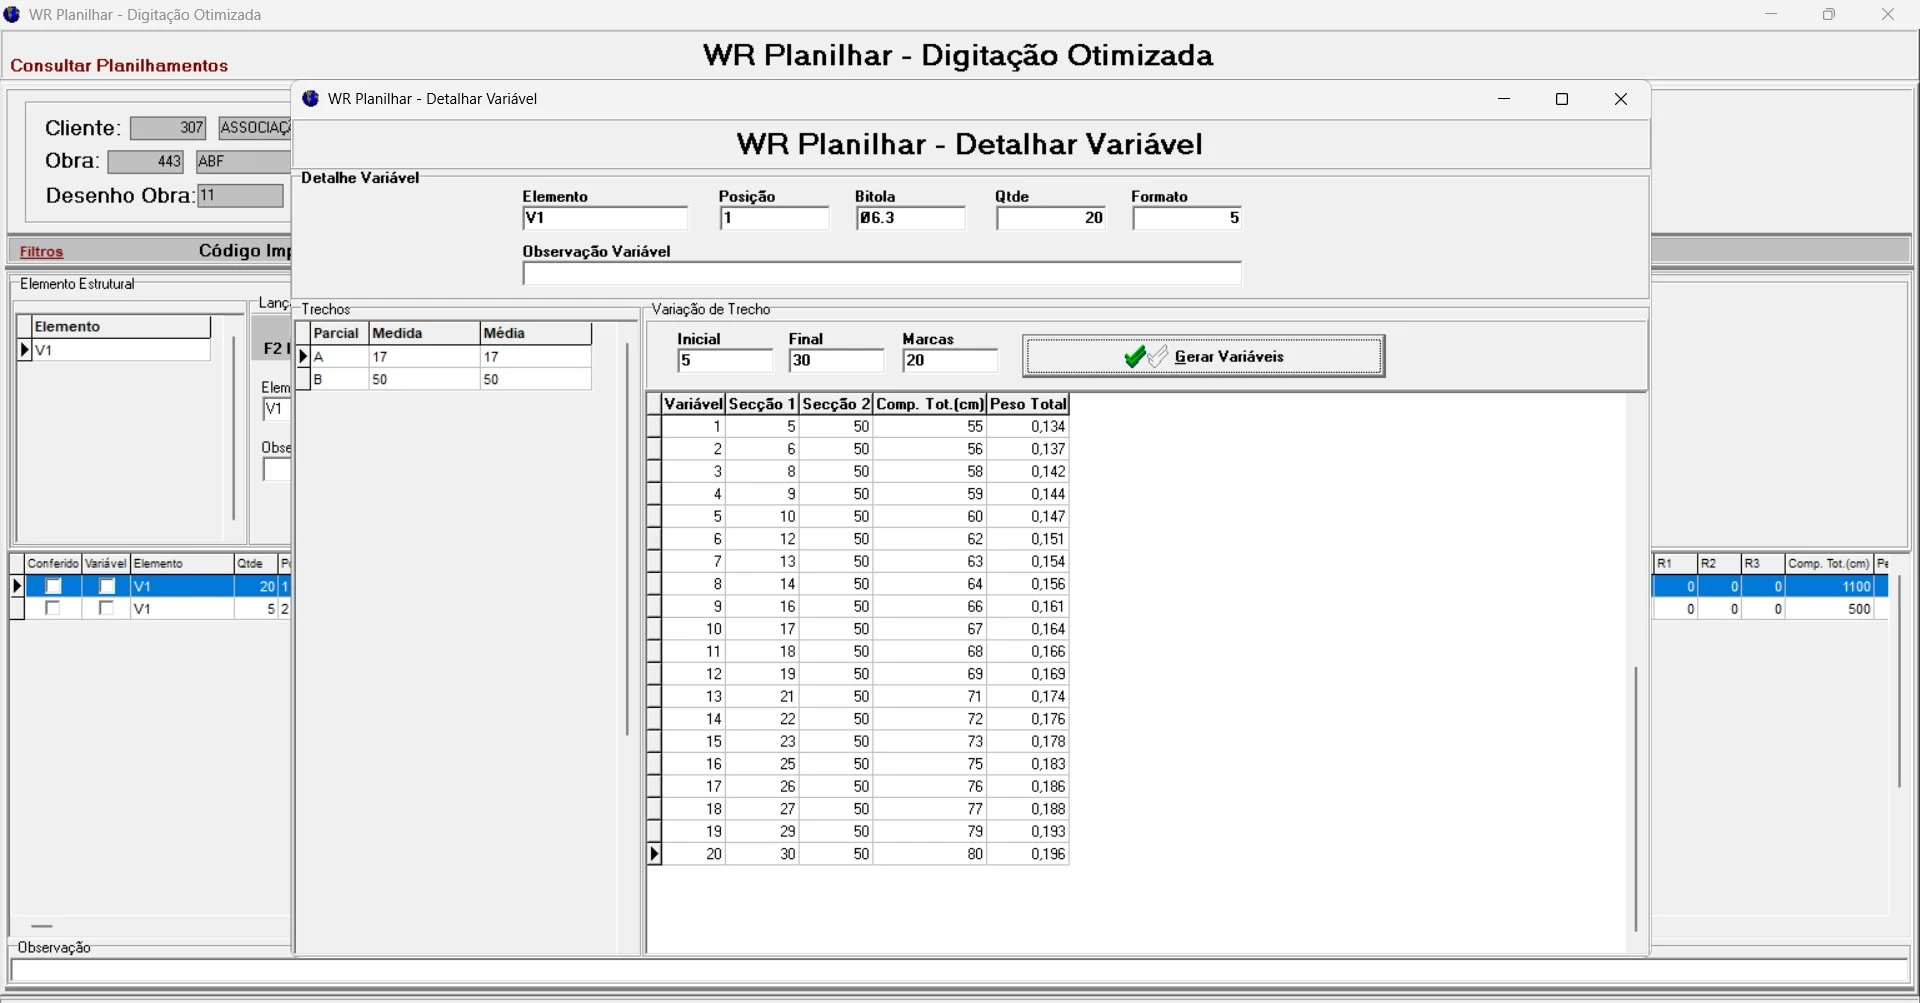
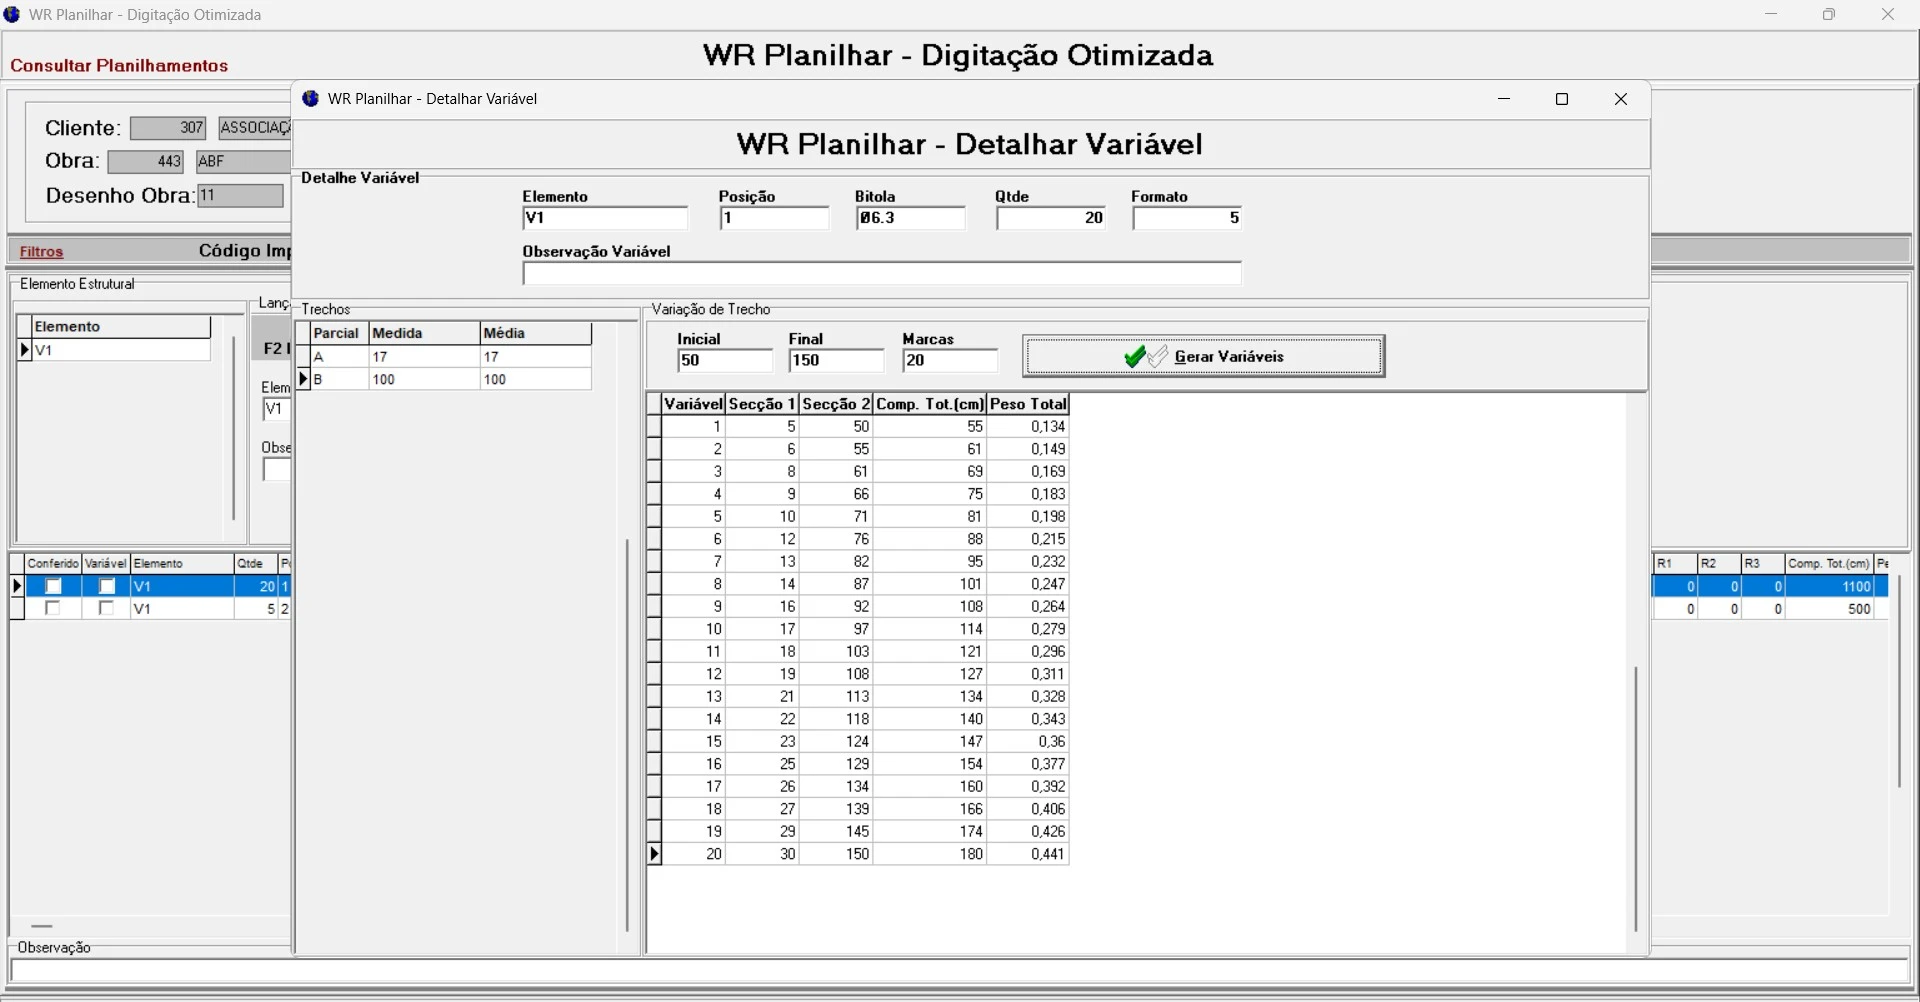
improvement dig otim page

diff --git a/src/pages/DigitacaoOtimizada.jsx b/src/pages/DigitacaoOtimizada.jsx
@@ -113,82 +113,92 @@ const tourSteps = [
   },
   {
     id: 'spot-13',
-    top: '10%', left: '16%', width: '69%', height: '84%',
-    title: 'Gerar planilhamento',
-    description: '',
-    side: 'left',
-    align: 'center',
+    top: '30%', left: '16%', width: '69%', height: '10%',
+    title: 'Variáveis',
+    description: 'Insira os valores "Inicial" e "Final" para cada parcial e clique em gerar variáveis',
+    side: 'bottom',
+    align: 'end',
   },
   {
     id: 'spot-14',
-    top: '27%', left: '0%', width: '100%', height: '80%',
-    title: 'Carimbo',
-    description: 'Note que o carimbo é formado por várias linhas, que podem onerar a leitura causando lentidão. Vamos removê-lo!',
+    top: '40%', left: '32%', width: '25%', height: '50%',
+    title: 'Variáveis',
+    description: 'Os valores serão carregados abaixo. Basta fechar a tela e prosseguir',
     side: 'top',
     align: 'center',
   },
   {
     id: 'spot-15',
-    top: '23.5%', left: '28%', width: '7%', height: '.5%',
-    title: 'Detalhar trecho',
-    description: 'Para isso, clique aqui e uma tela de edição irá abrir.',
+    top: '66.5%', left: '22%', width: '9%', height: '.1%',
+    title: 'Divisões de variáveis',
+    description: 'Caso queira dividir uma variável criada clique aqui. Você poderá dividir por quantidade ou comprimento.',
     side: 'bottom',
     align: 'center',
   },
   {
     id: 'spot-16',
-    top: '25%', left: '57%', width: '15%', height: '40%',
-    title: 'Detalhar trecho',
-    description: 'Enquadre o carimbo.',
+    top: '69.5%', left: '22%', width: '9%', height: '2%',
+    title: 'Editar elemento/posição',
+    description: 'Ações para a aplicar a posição selecionada.',
     side: 'bottom',
     align: 'center',
   },
   {
     id: 'spot-17',
-    top: '14.3%', left: '19.5%', width: '1%', height: '2%',
-    title: 'Detalhar trecho',
-    description: 'Clique aqui ou o botão delete.',
-    side: 'bottom',
+    top: '74.5%', left: '22%', width: '9%', height: '.2%',
+    title: 'Multiplicação',
+    description: 'Aqui você poderá multiplicar todos os elementos já lançados na grid por um valor inserido.',
+    side: 'top',
     align: 'center',
   },
   {
     id: 'spot-18',
-    top: '14.3%', left: '8.3%', width: '1%', height: '2%',
-    title: 'Detalhar trecho',
-    description: 'Clique aqui para salvar a edição e voltar para a tela principal.',
-    side: 'bottom',
-    align: 'center',
+    top: '77%', left: '22%', width: '9%', height: '.2%',
+    title: 'Alterar tipo de Aço',
+    description: 'Clique aqui aplicar outro tipo de aço a todos os elementos.',
+    side: 'right',
+    align: 'end',
   },
-
-//   {
-//     id: 'spot-6',
-//     top: '10.5%', left: '16%', width: '13.5%', height: '2.5%',
-//     title: '6º passo',
-//     description: 'Preencha as datas de previsão de entrega e de conferencia.',
-//     side: 'left',
-//     align: 'end',
-//   },{
-//     id: 'spot-7',
-//     top: '10.5%', left: '31%', width: '10%', height: '2.5%',
-//     title: '7º passo',
-//     description: 'Escolha o conferencista.',
-//     side: 'left',
-//     align: 'end',
-//   },{
-//     id: 'spot-8',
-//     top: '10.5%', left: '43%', width: '6%', height: '2.5%',
-//     title: '8º passo',
-//     description: 'A cor de conferencia caso deseje alterar. O padrão é em vermelho.',
-//     side: 'left',
-//     align: 'end',
-//   },{
-//     id: 'spot-9',
-//     top: '10.5%', left: '51%', width: '10%', height: '2.5%',
-//     title: '9º passo',
-//     description: 'Clique em gravar planilhamento para prosseguir para a tela de conferencia. Será salvo no banco de dados e poderá ser acessado a qualquer momento.',
-//     side: 'left',
-//     align: 'end',
-//   }
+  {
+    id: 'spot-19',
+    top: '80%', left: '22%', width: '9%', height: '.2%',
+    title: 'Ordenar elemento/posição',
+    description: 'Clicando aqui os elementos serão reordenados por "elemento estrutural" e depois por "posição" em modo crescente.',
+    side: 'right',
+    align: 'end',
+  },
+  {
+    id: 'spot-20',
+    top: '83%', left: '22%', width: '9%', height: '.2%',
+    title: 'Alterar Observação',
+    description: 'Aqui voce aplica outra observação para a posição selecionada.',
+    side: 'right',
+    align: 'end',
+  },
+  {
+    id: 'spot-21',
+    top: '86.5%', left: '22%', width: '9%', height: '.2%',
+    title: 'Exportar excel',
+    description: 'Clicando aqui voce pode exportar os valores lançados para um arquivo em excel que será gerado.',
+    side: 'right',
+    align: 'end',
+  },
+  {
+    id: 'spot-22',
+    top: '0%', left: '0%', width: '100%', height: '100%',
+    title: 'Resumo planilhamento',
+    description: 'Tendo feito todos os lançamentos e ajustes..',
+    side: 'right',
+    align: 'end',
+  },
+  {
+    id: 'spot-23',
+    top: '25%', left: '65%', width: '12%', height: '.1%',
+    title: 'Resumo planilhamento',
+    description: 'Clique aqui para prosseguir',
+    side: 'right',
+    align: 'end',
+  },
 ];
 
 export function DigitacaoOtimizada() {
@@ -201,11 +211,6 @@ const imgSources = {
         img4: '/assets/digitacaootimizada/digitotim4.webp',
         img5: '/assets/digitacaootimizada/digitotim5.webp',
         img6: '/assets/digitacaootimizada/digitotim6.webp',
-        img7: '/assets/digitacaootimizada/digitotim7.webp',
-        img8: '/assets/digitacaootimizada/digitotim8.webp',
-        img9: '/assets/digitacaootimizada/digitotim9.webp',
-        img10: '/assets/digitacaootimizada/digitotim10.webp',
-        img11: '/assets/digitacaootimizada/digitotim11.webp',
     }
     let currentImg = imgSources.img1
 
@@ -223,25 +228,25 @@ const imgSources = {
         case 'spot-10':
         case 'spot-11':
         case 'spot-12':
-            currentImg = imgSources.img4
-            break
-        case 'spot-13':
-        case 'spot-14':
         case 'spot-15':
         case 'spot-16':
         case 'spot-17':
         case 'spot-18':
         case 'spot-19':
+        case 'spot-20':
+        case 'spot-21':
+            currentImg = imgSources.img4
+            break
+        case 'spot-13':
+        case 'spot-14':
             currentImg = imgSources.img5
             break
-        case 'spot-20':
-            currentImg = imgSources.img8
-            break
+        case 'spot-22':
+        case 'spot-23':
+            currentImg = imgSources.img6
         default: 
             currentImg
     }
-
-    console.log(tourCurrentStep)
 
   useEffect(() => {
     const tour = driver({
@@ -251,9 +256,6 @@ const imgSources = {
       onHighlightStarted: (element) => {
         setTourCurrentStep(element?.id || null);
       },
-    //   onDestroyStarted: () => {
-    //     setTourCurrentStep(null);
-    //   },
       steps: tourSteps.map((s) => ({
         element: `#${s.id}`,
         popover: {
